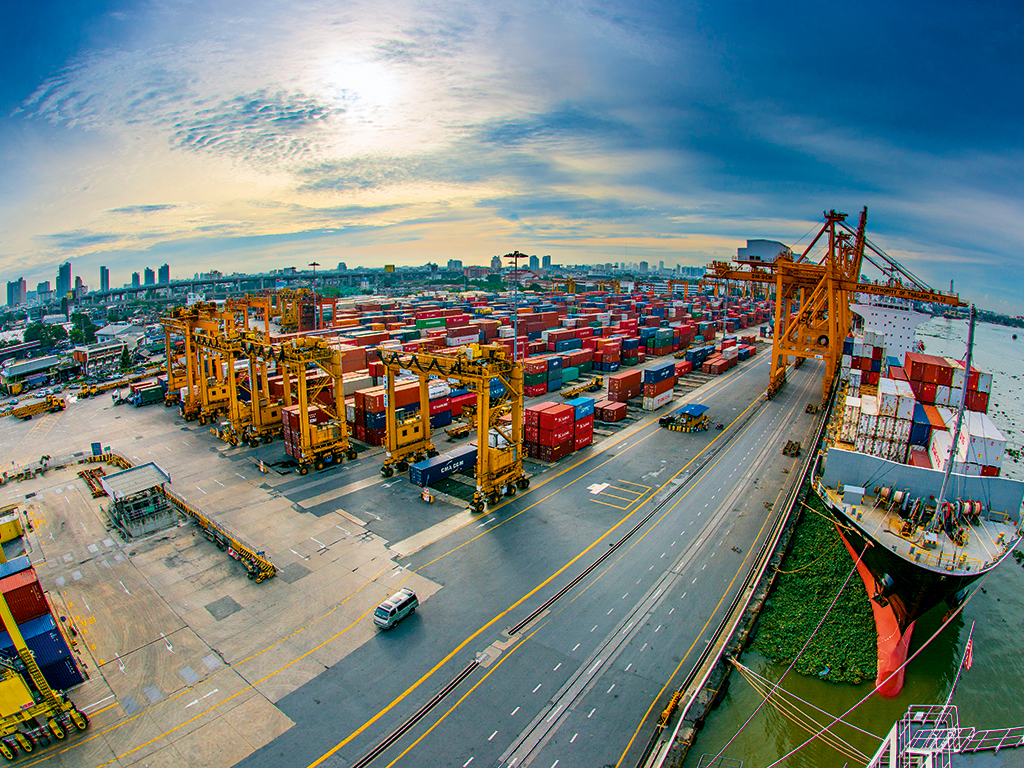
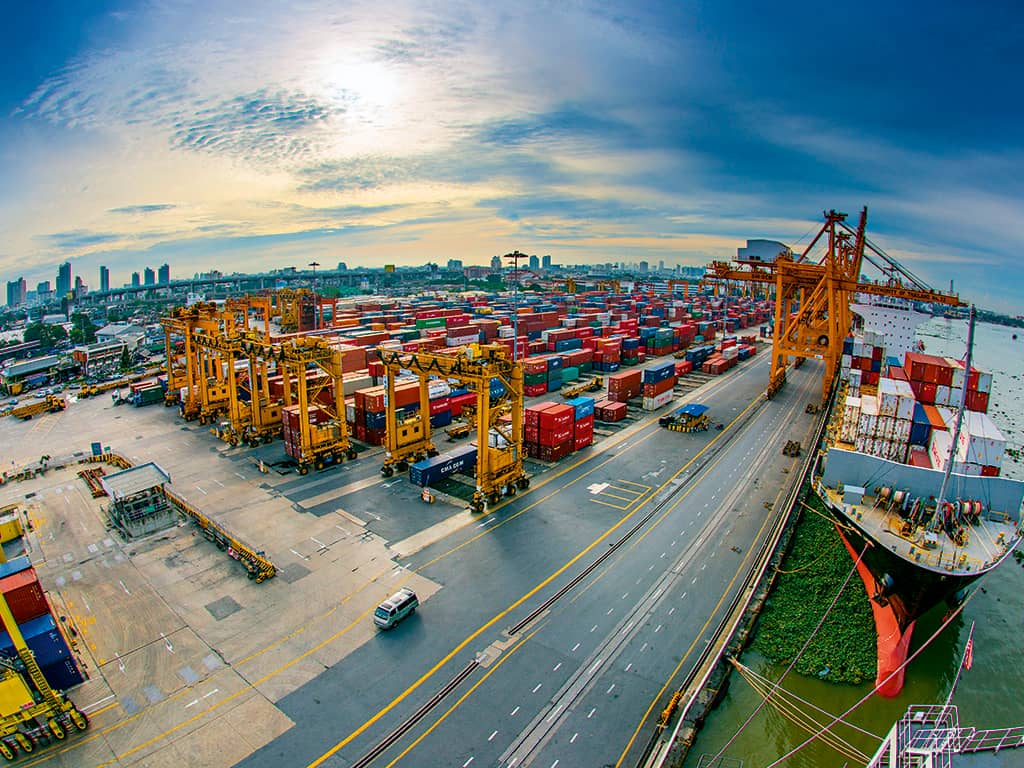
optimized some images

diff --git a/components/home/hero/Hero.js b/components/home/hero/Hero.js
@@ -5,7 +5,7 @@ export const Hero = () => {
       <div className={s.hero}>
          <div className={`${s.hero__container}`}>
             <img
-               src="/assets/images/hero1.png"
+               src="/assets/images/hero1.jpg"
                className={s.hero__img}
                alt="hero image"
             />
